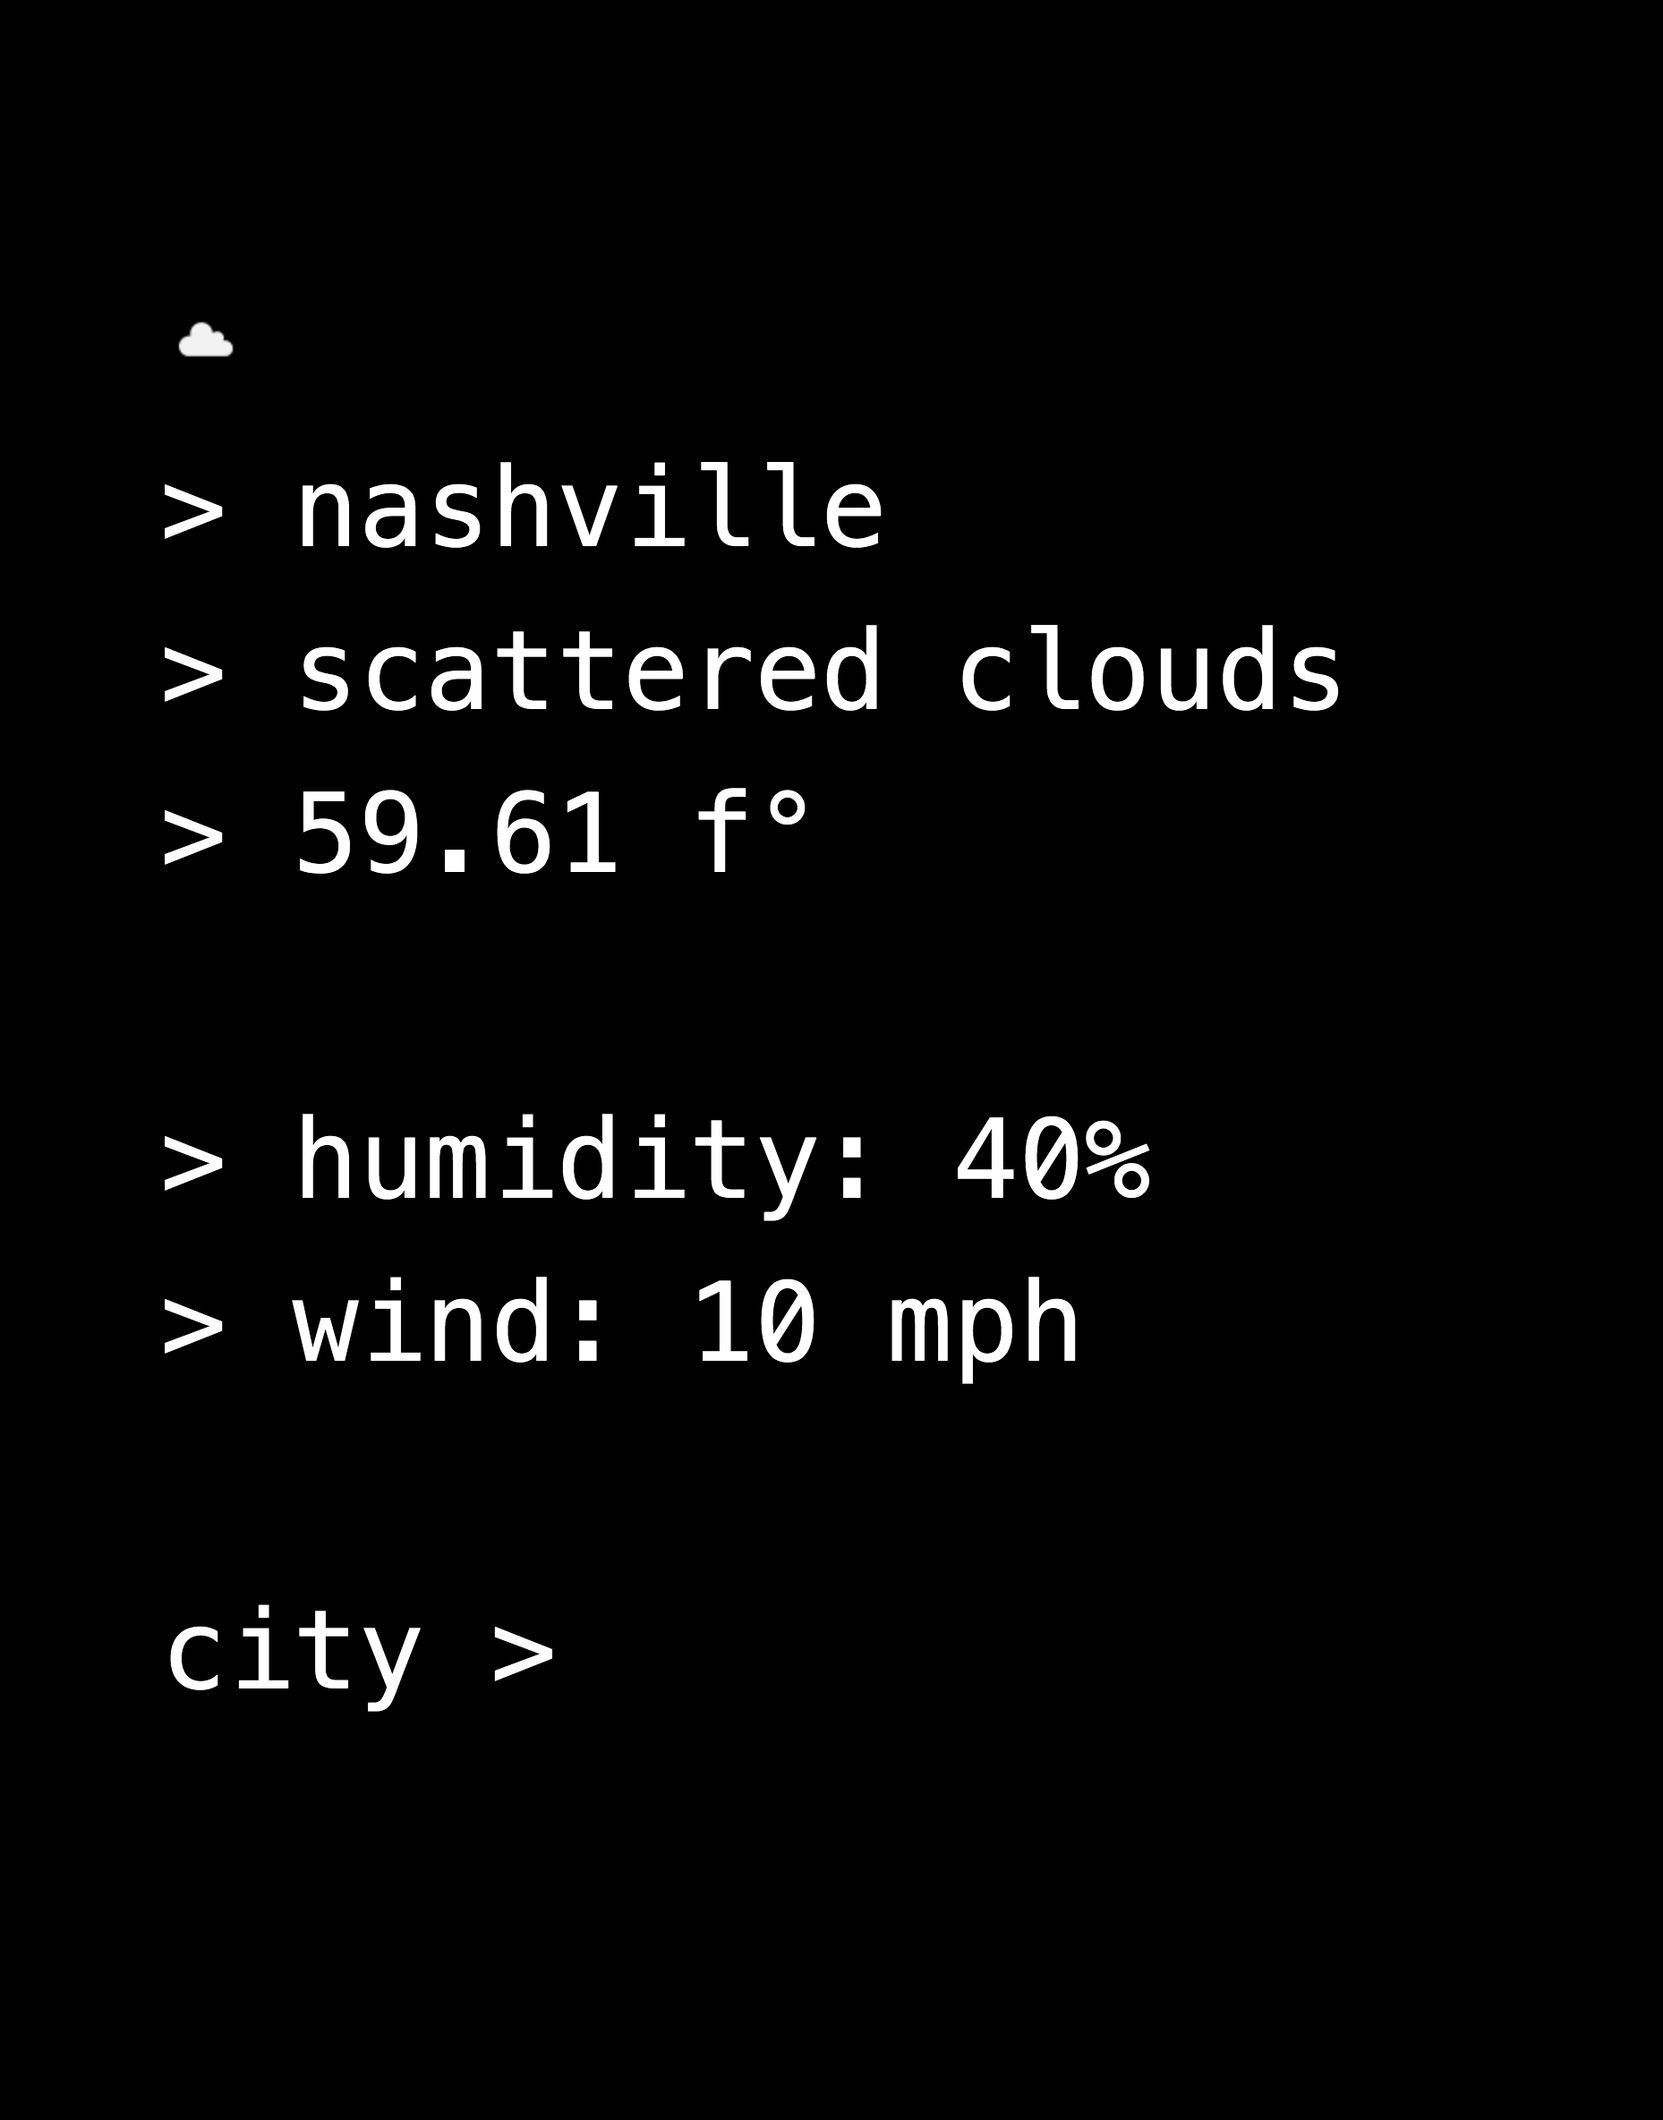
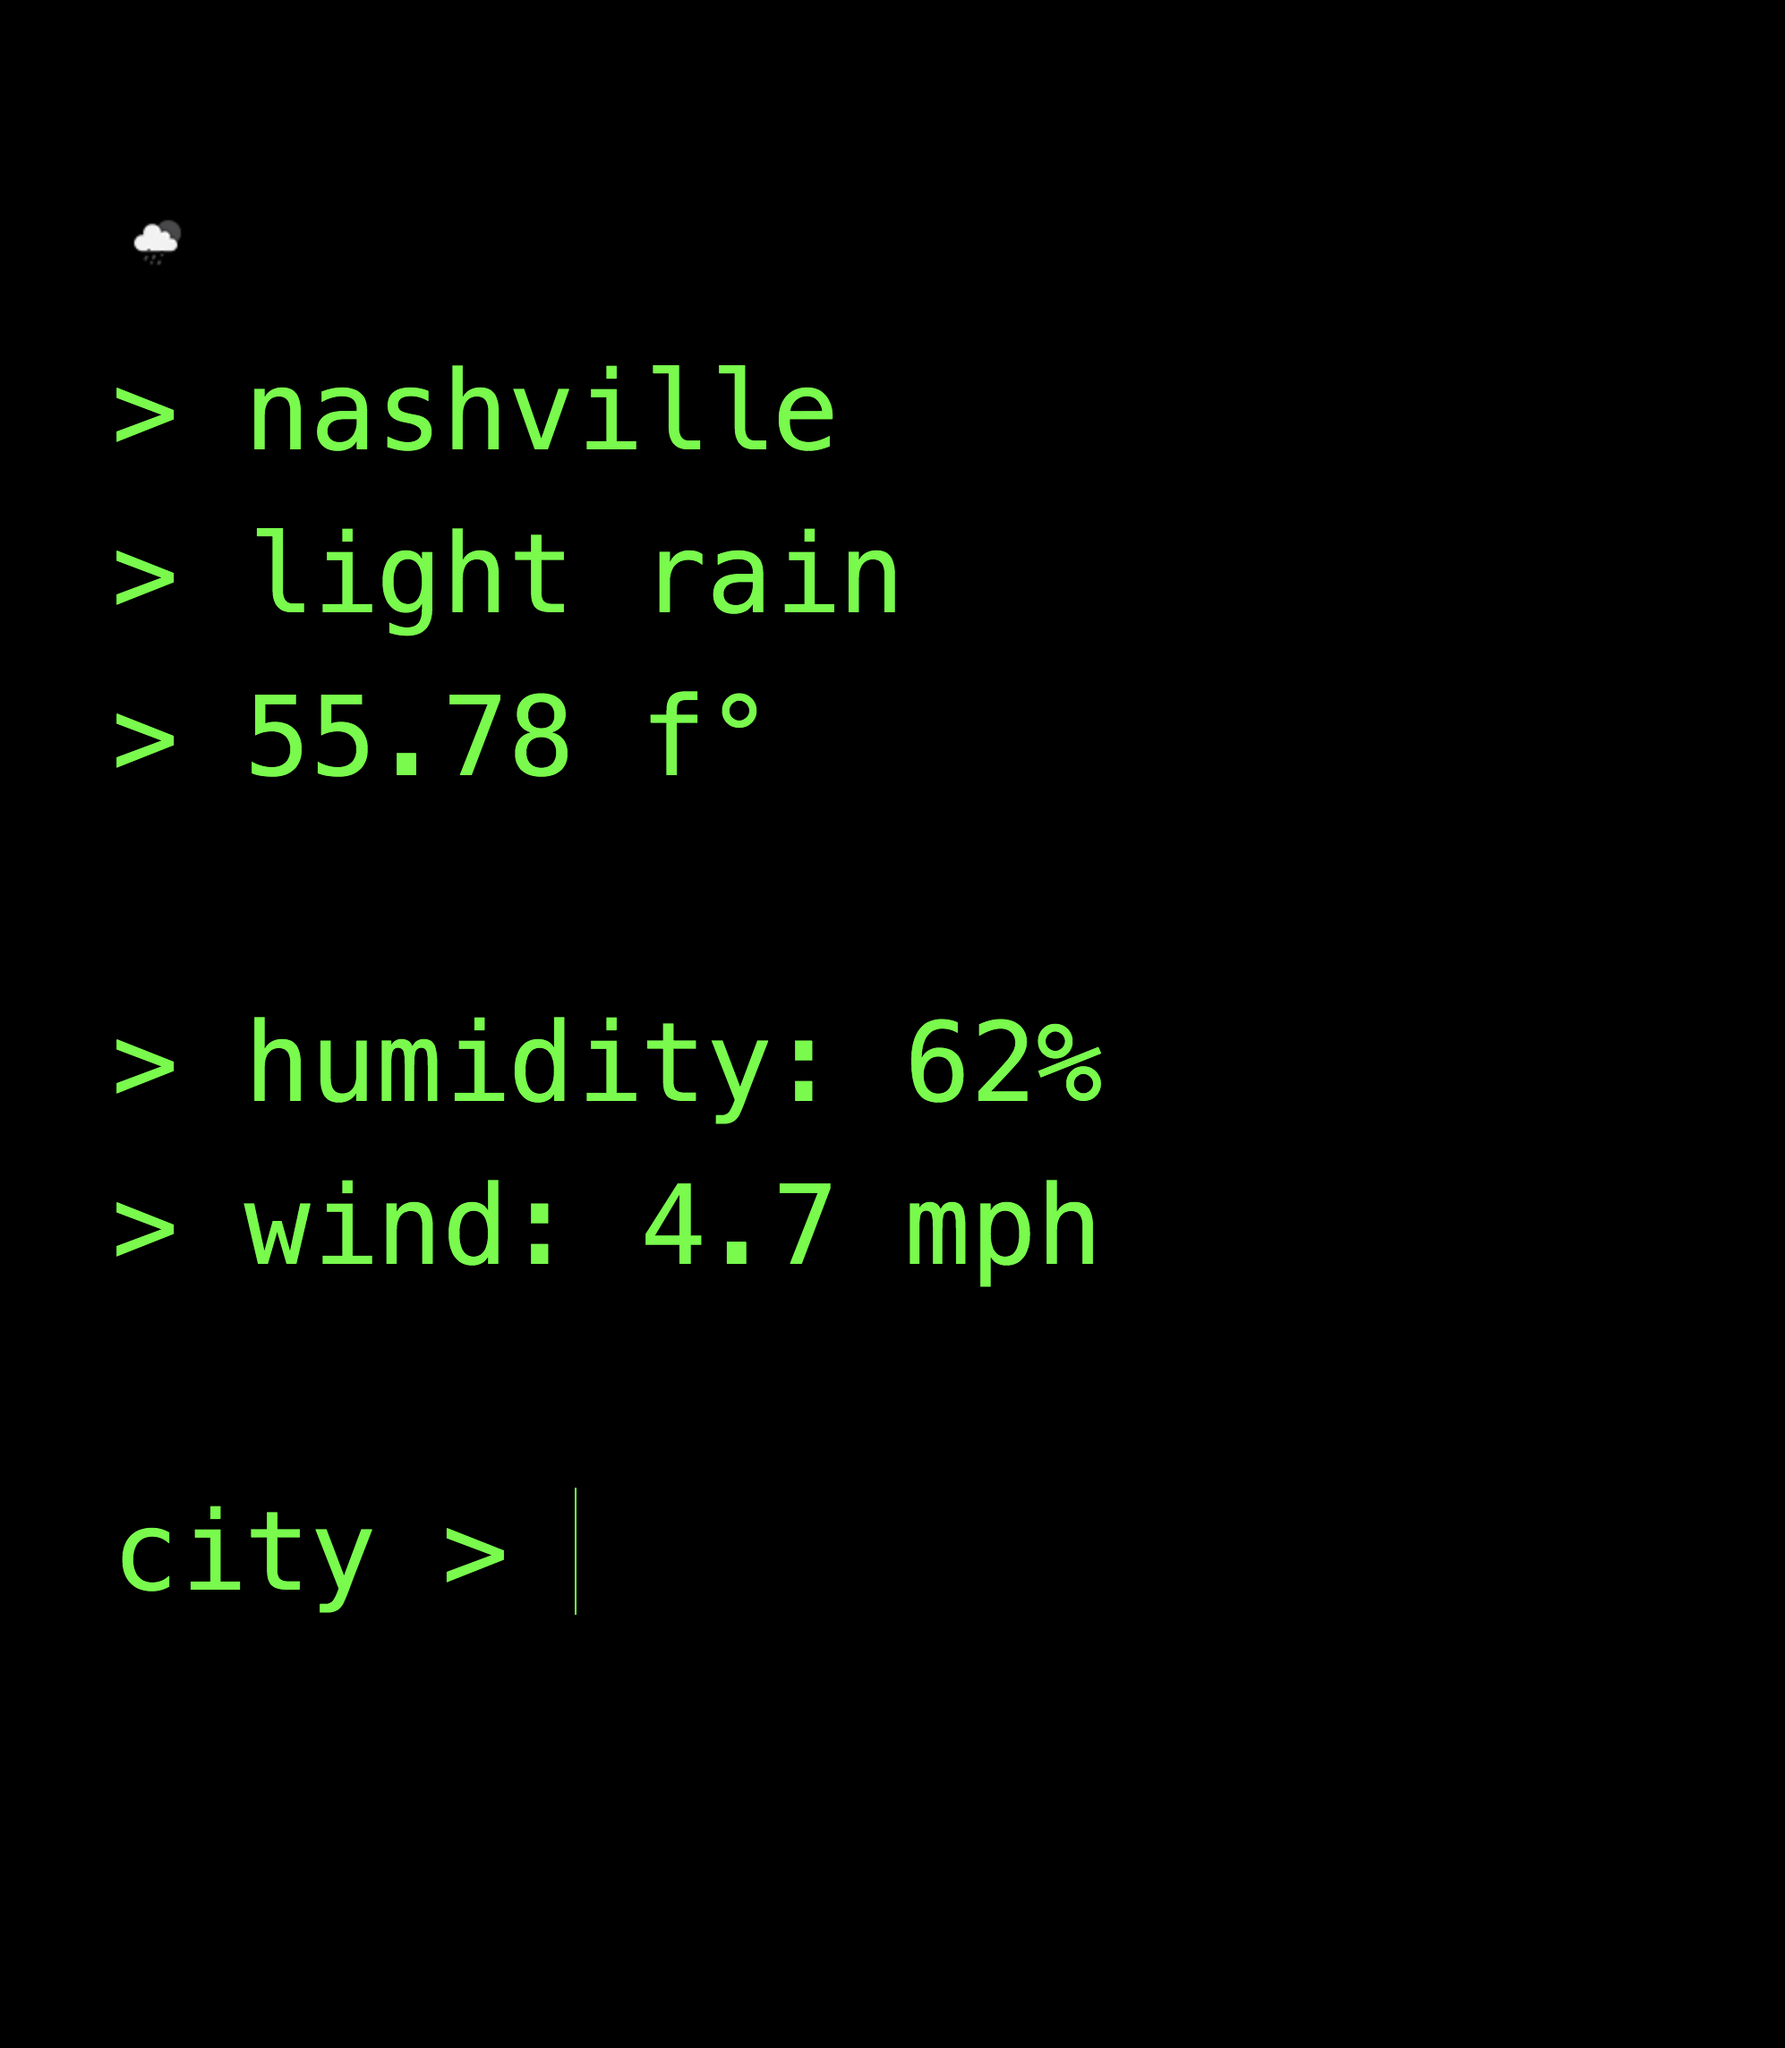
Changed design

diff --git a/style.css b/style.css
@@ -1,6 +1,8 @@
 /* Global */
 :root{
     --font-size: 4.5vh;
+    --font-color: #00ff00;
+    --alert-color: #e50000;
 
     font-size: var(--font-size);
 }
@@ -18,7 +20,7 @@ html, body{
 
 body{
     font-family: Menlo, sans-serif;
-    color: #fff;
+    color: var(--font-color);
     background: #000;
     display: grid;
 }
@@ -30,7 +32,7 @@ p{
 input{
     background-color: #000;
     font-family: Menlo, sans-serif;
-    color: #fff;
+    color: var(--font-color);
     text-transform: lowercase;
     font-size: 4.5vh;
     width: 50%;
@@ -47,7 +49,7 @@ input{
 }
 
 .alert{
-    color: red!important;
+    color: var(--alert-color)!important;
 }
 
 .sleeping-alert{

diff --git a/README.md b/README.md
@@ -10,7 +10,7 @@ A JavaScript web app that pulls weather data from the [Open Weather Map API.](ht
 
 - Make basic design -DONE
 - Write logic -DONE
-- Add use of local storage -DONE
+- Store last city in local storage -DONE
 - Incorporate use of city input -DONE
 - Prevent user from changing focus out of input field -DONE
 - Add code for when city is invalid -DONE
